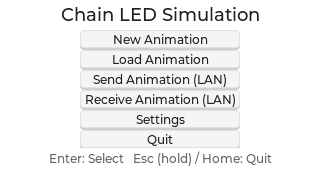
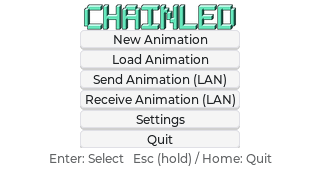
Title screen: replace translated title with an English ASCII-art wordmark
The app title is now "CHAINLED" rendered as a 3D isometric-block PNG
(tools/generate_title_logo.py), matching Battleship's own
"BATTLESHIP" logo treatment: the product's brand name isn't
translated, even though every other string is. Ported Battleship's
generator script (same 5x7 dot-matrix font, same rendering algorithm),
adding the C/N/D glyphs it didn't need, and reusing its exact palette
since it already matches ChainLED's own kPrimary accent color
(0x63e2b7, inherited from the same template default).

Had to shrink the logo's height budget (48px -> 26px) versus
Battleship's version: this Title screen can stack up to 6 buttons
(Phase 6 added Settings, Phase 7 added BLE-labeled variants), so the
available vertical space is tighter. Verified no overlap at the
6-button worst case and across all three UI languages via screenshot.

i18n::StrId::AppTitle is now unused and removed (enum, all three
language tables, and the one test that referenced it).

Changed region(s): [[0.1875, 0.0, 0.8125, 0.1765]]

diff --git a/tools/generate_title_logo.py b/tools/generate_title_logo.py
@@ -1,0 +1,235 @@
+#!/usr/bin/env python3
+"""
+SPDX-FileCopyrightText: 2026 yutacar
+SPDX-License-Identifier: MIT
+
+Generates assets/images/title_logo.png: a 3D isometric-block ASCII-art
+rendering of "CHAINLED" for the Title screen (src/view/screens/
+title_screen.cpp), adapted from Battleship's tools/generate_title_logo.py
+(same rendering algorithm and font style, see
+[[battleship-cardputerzero-project]]).
+
+Why "CHAINLED" and not the full "Chain LED Simulation" display name: the
+brand wordmark, kept in English in every UI language -- same treatment
+Battleship gives "BATTLESHIP" (the product's own name is not translated,
+even though everything else is; see PLAN.md/NOTES.md Phase 6 i18n notes).
+It is also the project's own name everywhere else in the codebase (CMake
+project(chainled), the BLE advertised name prefix "CHAINLED-", the repo
+name) so it reads as the consistent brand token instead of introducing a
+second name just for the logo.
+
+Design
+------
+Each letter is authored as a 5x7 dot-matrix glyph (FONT_5X7 below, classic
+LED-sign style bitmap font). Battleship's table already covers A/E/H/I/L;
+this file adds the 3 additional letters CHAINLED needs (C/N/D) in the same
+classic-5x7 style. Every "on" dot is drawn as a small cube with 3 faces
+(front, top, right-side) using isometric-style parallelogram bevels;
+adjacent "on" dots fuse into solid blocks because the top/side bevels are
+only drawn on the *silhouette edge* of the glyph, not on every individual
+cell -- see render() for the exact algorithm (unchanged from Battleship's).
+
+Why pre-rendered PNG instead of an LVGL label: LVGL's built-in fonts
+(Montserrat) are proportional and have no built-in 3D/bevel rendering, so
+drawing this directly with lv_label would require a custom bitmap font at
+minimum, and still couldn't do the per-glyph beveled shading. Pre-rendering
+with Pillow and displaying via lv_image (LV_USE_LIBPNG=1, LV_USE_FS_STDIO
+drive letter 'A' -- both already enabled in lv_conf_desktop.h /
+lv_conf_cm0.h) is the simplest correct approach.
+
+Color choice: the face color (99, 226, 183) = 0x63e2b7 matches
+view::color::dark::kPrimary (src/view/ui_const.h) exactly -- ChainLED
+inherited the same template default accent color Battleship used, so no
+new palette was invented; the logo reads as an intentional accent on the
+dark theme, with a heavy near-black outline keeping it legible on the
+light theme's 0xffffff body too.
+
+Requirements (installed on demand into a local venv, not vendored):
+    pip install pillow
+
+Usage:
+    python3 tools/generate_title_logo.py
+"""
+
+from __future__ import annotations
+
+from pathlib import Path
+
+from PIL import Image, ImageDraw
+
+REPO_ROOT = Path(__file__).resolve().parent.parent
+OUTPUT_PATH = REPO_ROOT / "assets" / "images" / "title_logo.png"
+
+TEXT = "CHAINLED"
+GLYPH_COLS, GLYPH_ROWS = 5, 7
+
+# Hand-authored 5x7 dot-matrix bitmap font (rows top->bottom, '1' = lit
+# cell), classic LED-sign style. A/E/H/I/L reused verbatim from
+# Battleship's table (same style); C/N/D added here for CHAINLED.
+FONT_5X7 = {
+    "A": ["01110", "10001", "10001", "11111", "10001", "10001", "10001"],
+    "C": ["01111", "10000", "10000", "10000", "10000", "10000", "01111"],
+    "D": ["11110", "10001", "10001", "10001", "10001", "10001", "11110"],
+    "E": ["11111", "10000", "10000", "11110", "10000", "10000", "11111"],
+    "H": ["10001", "10001", "10001", "11111", "10001", "10001", "10001"],
+    "I": ["11111", "00100", "00100", "00100", "00100", "00100", "11111"],
+    "L": ["10000", "10000", "10000", "10000", "10000", "10000", "11111"],
+    "N": ["10001", "11001", "10101", "10101", "10011", "10001", "10001"],
+}
+
+# Max PNG dimensions the Title screen layout budgets for the logo (320x170
+# screen; up to 6 stacked menu buttons need most of the vertical space, see
+# title_screen.cpp) -- deliberately smaller than Battleship's 48px budget
+# since this screen's button stack is taller.
+MAX_W, MAX_H = 300, 26
+
+# Matches view::color::dark::kPrimary (0x63e2b7) -- see module docstring.
+PALETTE = dict(
+    face=(99, 226, 183, 255),
+    top=(200, 250, 235, 255),
+    side=(20, 80, 65, 255),
+    outline=(6, 20, 16, 255),
+)
+
+
+def _on(grid: list[str], r: int, c: int) -> bool:
+    if 0 <= r < GLYPH_ROWS and 0 <= c < GLYPH_COLS:
+        return grid[r][c] == "1"
+    return False
+
+
+def render(
+    face: tuple[int, int, int, int],
+    top: tuple[int, int, int, int],
+    side: tuple[int, int, int, int],
+    outline: tuple[int, int, int, int],
+    cell: int = 6,
+    depth: int = 3,
+    letter_gap: int = 1,
+    supersample: int = 4,
+) -> Image.Image:
+    ss = supersample
+    cell_px = cell * ss
+    depth_px = depth * ss
+
+    letter_col_offsets = []
+    total_cols = 0
+    for _ in TEXT:
+        letter_col_offsets.append(total_cols)
+        total_cols += GLYPH_COLS + letter_gap
+
+    width = total_cols * cell_px + depth_px + 4 * ss
+    height = GLYPH_ROWS * cell_px + depth_px + 4 * ss
+    img = Image.new("RGBA", (width, height), (0, 0, 0, 0))
+    draw = ImageDraw.Draw(img)
+    origin_x, origin_y = depth_px + 2 * ss, depth_px + 2 * ss
+
+    def cell_origin(base_col: int, r: int, c: int) -> tuple[int, int]:
+        return origin_x + (base_col + c) * cell_px, origin_y + r * cell_px
+
+    # Pass 1: heavy outline -- redraw every face/bevel offset in a ring of
+    # directions so a crisp dark border surrounds the whole glyph silhouette.
+    for li, ch in enumerate(TEXT):
+        grid = FONT_5X7[ch]
+        base_col = letter_col_offsets[li]
+        for r in range(GLYPH_ROWS):
+            for c in range(GLYPH_COLS):
+                if grid[r][c] != "1":
+                    continue
+                x0, y0 = cell_origin(base_col, r, c)
+                for dx in (-ss, 0, ss):
+                    for dy in (-ss, 0, ss):
+                        draw.rectangle(
+                            [x0 + dx, y0 + dy, x0 + cell_px - 1 + dx, y0 + cell_px - 1 + dy],
+                            fill=outline,
+                        )
+                if not _on(grid, r - 1, c):
+                    for dx in (-ss, 0, ss):
+                        for dy in (-ss, 0, ss):
+                            draw.polygon(
+                                [
+                                    (x0 + dx, y0 + dy),
+                                    (x0 + depth_px + dx, y0 - depth_px + dy),
+                                    (x0 + cell_px - 1 + depth_px + dx, y0 - depth_px + dy),
+                                    (x0 + cell_px - 1 + dx, y0 + dy),
+                                ],
+                                fill=outline,
+                            )
+                if not _on(grid, r, c + 1):
+                    for dx in (-ss, 0, ss):
+                        for dy in (-ss, 0, ss):
+                            draw.polygon(
+                                [
+                                    (x0 + cell_px - 1 + dx, y0 + dy),
+                                    (x0 + cell_px - 1 + depth_px + dx, y0 - depth_px + dy),
+                                    (x0 + cell_px - 1 + depth_px + dx, y0 + cell_px - 1 - depth_px + dy),
+                                    (x0 + cell_px - 1 + dx, y0 + cell_px - 1 + dy),
+                                ],
+                                fill=outline,
+                            )
+
+    # Pass 2: front faces (solid fill).
+    for li, ch in enumerate(TEXT):
+        grid = FONT_5X7[ch]
+        base_col = letter_col_offsets[li]
+        for r in range(GLYPH_ROWS):
+            for c in range(GLYPH_COLS):
+                if grid[r][c] == "1":
+                    x0, y0 = cell_origin(base_col, r, c)
+                    draw.rectangle([x0, y0, x0 + cell_px - 1, y0 + cell_px - 1], fill=face)
+
+    # Pass 3: top bevels, only on the silhouette's top edge (no 'on'
+    # neighbor directly above) so adjoining cells fuse into solid blocks.
+    for li, ch in enumerate(TEXT):
+        grid = FONT_5X7[ch]
+        base_col = letter_col_offsets[li]
+        for r in range(GLYPH_ROWS):
+            for c in range(GLYPH_COLS):
+                if grid[r][c] == "1" and not _on(grid, r - 1, c):
+                    x0, y0 = cell_origin(base_col, r, c)
+                    draw.polygon(
+                        [
+                            (x0, y0),
+                            (x0 + depth_px, y0 - depth_px),
+                            (x0 + cell_px - 1 + depth_px, y0 - depth_px),
+                            (x0 + cell_px - 1, y0),
+                        ],
+                        fill=top,
+                    )
+
+    # Pass 4: right-side bevels, only on the silhouette's right edge.
+    for li, ch in enumerate(TEXT):
+        grid = FONT_5X7[ch]
+        base_col = letter_col_offsets[li]
+        for r in range(GLYPH_ROWS):
+            for c in range(GLYPH_COLS):
+                if grid[r][c] == "1" and not _on(grid, r, c + 1):
+                    x0, y0 = cell_origin(base_col, r, c)
+                    draw.polygon(
+                        [
+                            (x0 + cell_px - 1, y0),
+                            (x0 + cell_px - 1 + depth_px, y0 - depth_px),
+                            (x0 + cell_px - 1 + depth_px, y0 + cell_px - 1 - depth_px),
+                            (x0 + cell_px - 1, y0 + cell_px - 1),
+                        ],
+                        fill=side,
+                    )
+
+    # Downsample (supersampling anti-alias) then fit within the MAX_W x
+    # MAX_H budget the Title screen layout allows.
+    img = img.resize((width // ss, height // ss), Image.LANCZOS)
+    scale = min(MAX_W / img.width, MAX_H / img.height, 1.0)
+    if scale < 1.0:
+        img = img.resize((max(1, int(img.width * scale)), max(1, int(img.height * scale))), Image.LANCZOS)
+    return img
+
+
+def main() -> None:
+    img = render(**PALETTE)
+    OUTPUT_PATH.parent.mkdir(parents=True, exist_ok=True)
+    img.save(OUTPUT_PATH)
+    print(f"{OUTPUT_PATH} ({img.width}x{img.height})")
+
+
+if __name__ == "__main__":
+    main()

diff --git a/src/view/screens/title_screen.cpp b/src/view/screens/title_screen.cpp
@@ -13,6 +13,8 @@
 #include "fonts.h"
 #include "strings.h"
 
+#include <string>
+
 namespace screen {
 namespace {
 
@@ -78,11 +80,30 @@ TitleScreen::TitleScreen(viewmodel::BaseViewModel& view_model, app::AssetManager
 void TitleScreen::build_content(lv_obj_t* content) {
     lv_obj_clear_flag(content, LV_OBJ_FLAG_SCROLLABLE);
 
-    auto* title = lv_label_create(content);
-    lv_label_set_text(title, i18n::tr(i18n::StrId::AppTitle));
-    lv_obj_set_style_text_font(title, i18n::font_for_size(18), 0);
-    lv_obj_align(title, LV_ALIGN_TOP_MID, 0, 4);
-    reactive::bind_theme(title, view_model().dark_mode_subject(), reactive::ThemeRole::Text);
+    // "CHAINLED" is the product's brand wordmark, kept in English in every
+    // UI language (same treatment as Battleship's "BATTLESHIP" title logo --
+    // see tools/generate_title_logo.py). Rendered as a pre-generated 3D
+    // ASCII-art PNG rather than an lv_label: LVGL's built-in fonts have no
+    // bevel/shading support, so the isometric-block look is produced
+    // offline with Pillow.
+    auto* title = lv_image_create(content);
+    auto logo_path = assets().resolve("images/title_logo.png");
+    if (!logo_path.empty()) {
+        // lv_image_set_src() lv_strdup()s file-path sources internally, so
+        // this local string does not need to outlive the call.
+        std::string logo_path_str = "A:" + logo_path.string();
+        lv_image_set_src(title, logo_path_str.c_str());
+        lv_obj_align(title, LV_ALIGN_TOP_MID, 0, 4);
+    } else {
+        // Fallback in case the PNG asset failed to resolve -- keep the
+        // title readable instead of showing a blank/broken image.
+        lv_obj_delete(title);
+        title = lv_label_create(content);
+        lv_label_set_text(title, "CHAINLED");
+        lv_obj_set_style_text_font(title, i18n::font_for_size(18), 0);
+        lv_obj_align(title, LV_ALIGN_TOP_MID, 0, 4);
+        reactive::bind_theme(title, view_model().dark_mode_subject(), reactive::ThemeRole::Text);
+    }
 
     auto* menu = lv_obj_create(content);
     lv_obj_remove_style_all(menu);

diff --git a/src/i18n/strings_ja.cpp b/src/i18n/strings_ja.cpp
@@ -9,7 +9,6 @@ namespace i18n::detail {
 
 const Table kJapaneseTable = [] {
     Table t{};
-    t[static_cast<std::size_t>(StrId::AppTitle)] = "チェーンLEDシミュレーション";
     t[static_cast<std::size_t>(StrId::TitleNewAnimation)] = "新規アニメーション";
     t[static_cast<std::size_t>(StrId::TitleLoadAnimation)] = "アニメーションを開く";
     t[static_cast<std::size_t>(StrId::TitleSendAnimation)] = "アニメーションを送信 (LAN)";

diff --git a/src/i18n/strings_en.cpp b/src/i18n/strings_en.cpp
@@ -9,7 +9,6 @@ namespace i18n::detail {
 
 const Table kEnglishTable = [] {
     Table t{};
-    t[static_cast<std::size_t>(StrId::AppTitle)] = "Chain LED Simulation";
     t[static_cast<std::size_t>(StrId::TitleNewAnimation)] = "New Animation";
     t[static_cast<std::size_t>(StrId::TitleLoadAnimation)] = "Load Animation";
     t[static_cast<std::size_t>(StrId::TitleSendAnimation)] = "Send Animation (LAN)";

diff --git a/src/i18n/strings_zh.cpp b/src/i18n/strings_zh.cpp
@@ -9,7 +9,6 @@ namespace i18n::detail {
 
 const Table kChineseTable = [] {
     Table t{};
-    t[static_cast<std::size_t>(StrId::AppTitle)] = "链式LED模拟器";
     t[static_cast<std::size_t>(StrId::TitleNewAnimation)] = "新建动画";
     t[static_cast<std::size_t>(StrId::TitleLoadAnimation)] = "打开动画";
     t[static_cast<std::size_t>(StrId::TitleSendAnimation)] = "发送动画 (局域网)";

diff --git a/tests/test_i18n_catalog.cpp b/tests/test_i18n_catalog.cpp
@@ -90,7 +90,7 @@ TEST_F(I18nCatalogTest, DefaultLanguageIsEnglish) {
     // leaking a non-English language across the process-wide global.
     set_language(Lang::EN);
     EXPECT_EQ(current_language(), Lang::EN);
-    EXPECT_STREQ(tr(StrId::AppTitle), "Chain LED Simulation");
+    EXPECT_STREQ(tr(StrId::TitleNewAnimation), "New Animation");
 }
 
 TEST_F(I18nCatalogTest, SetLanguageSwitchesActiveTable) {

diff --git a/src/i18n/strings.h b/src/i18n/strings.h
@@ -26,7 +26,9 @@ enum class Lang : std::uint8_t {
 
 enum class StrId {
     // ---- Title screen ----
-    AppTitle,
+    // (App/brand title is a fixed English wordmark rendered as ASCII-art,
+    // not translated -- see tools/generate_title_logo.py -- so there is no
+    // AppTitle StrId here.)
     TitleNewAnimation,
     TitleLoadAnimation,
     TitleSendAnimation,
